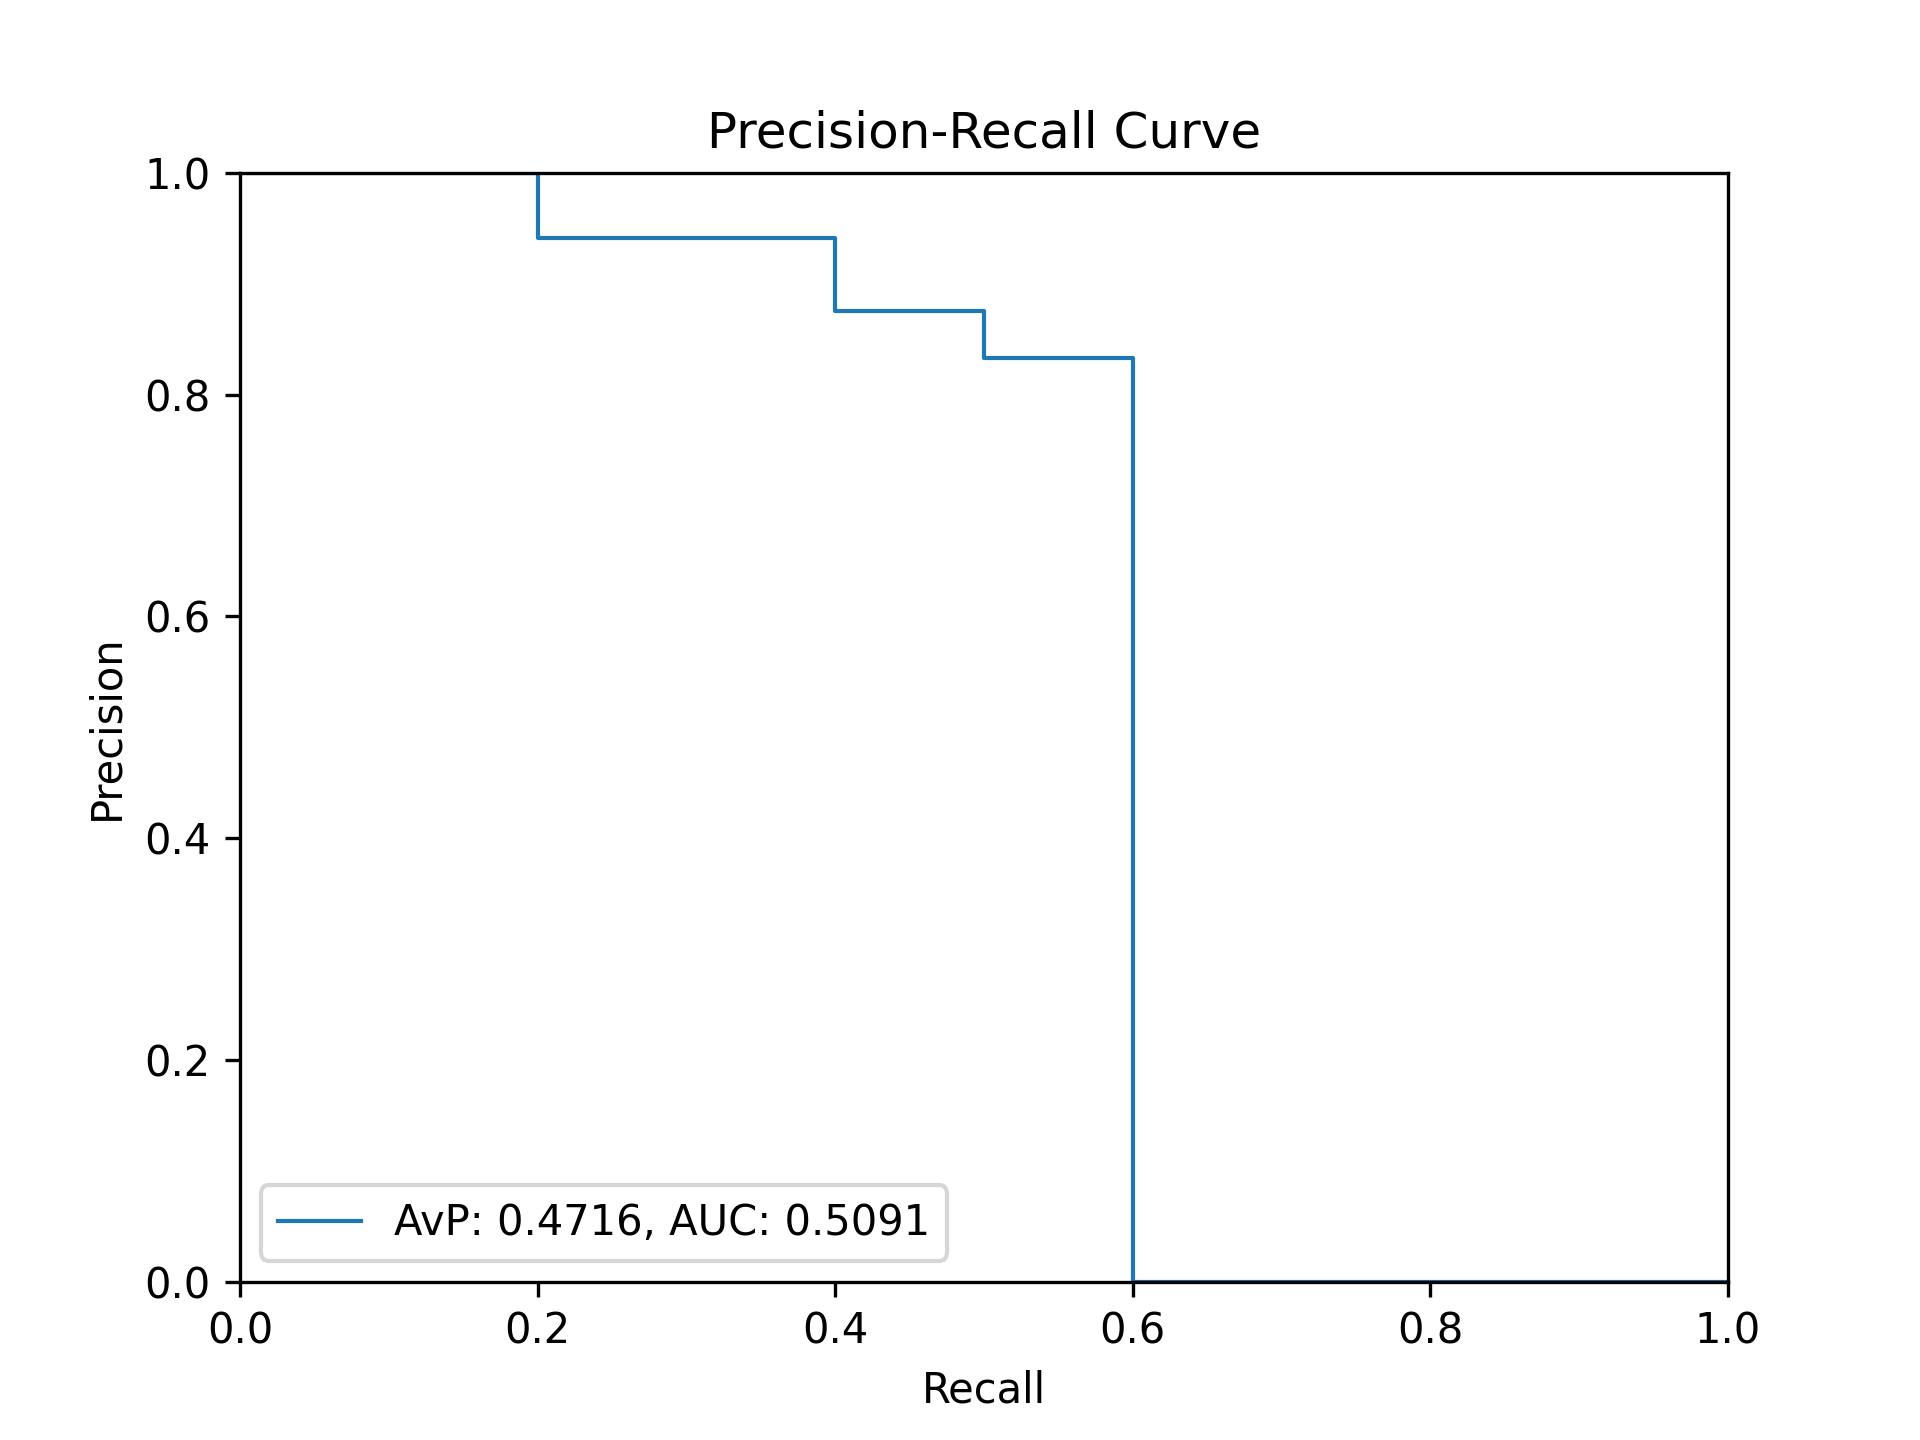
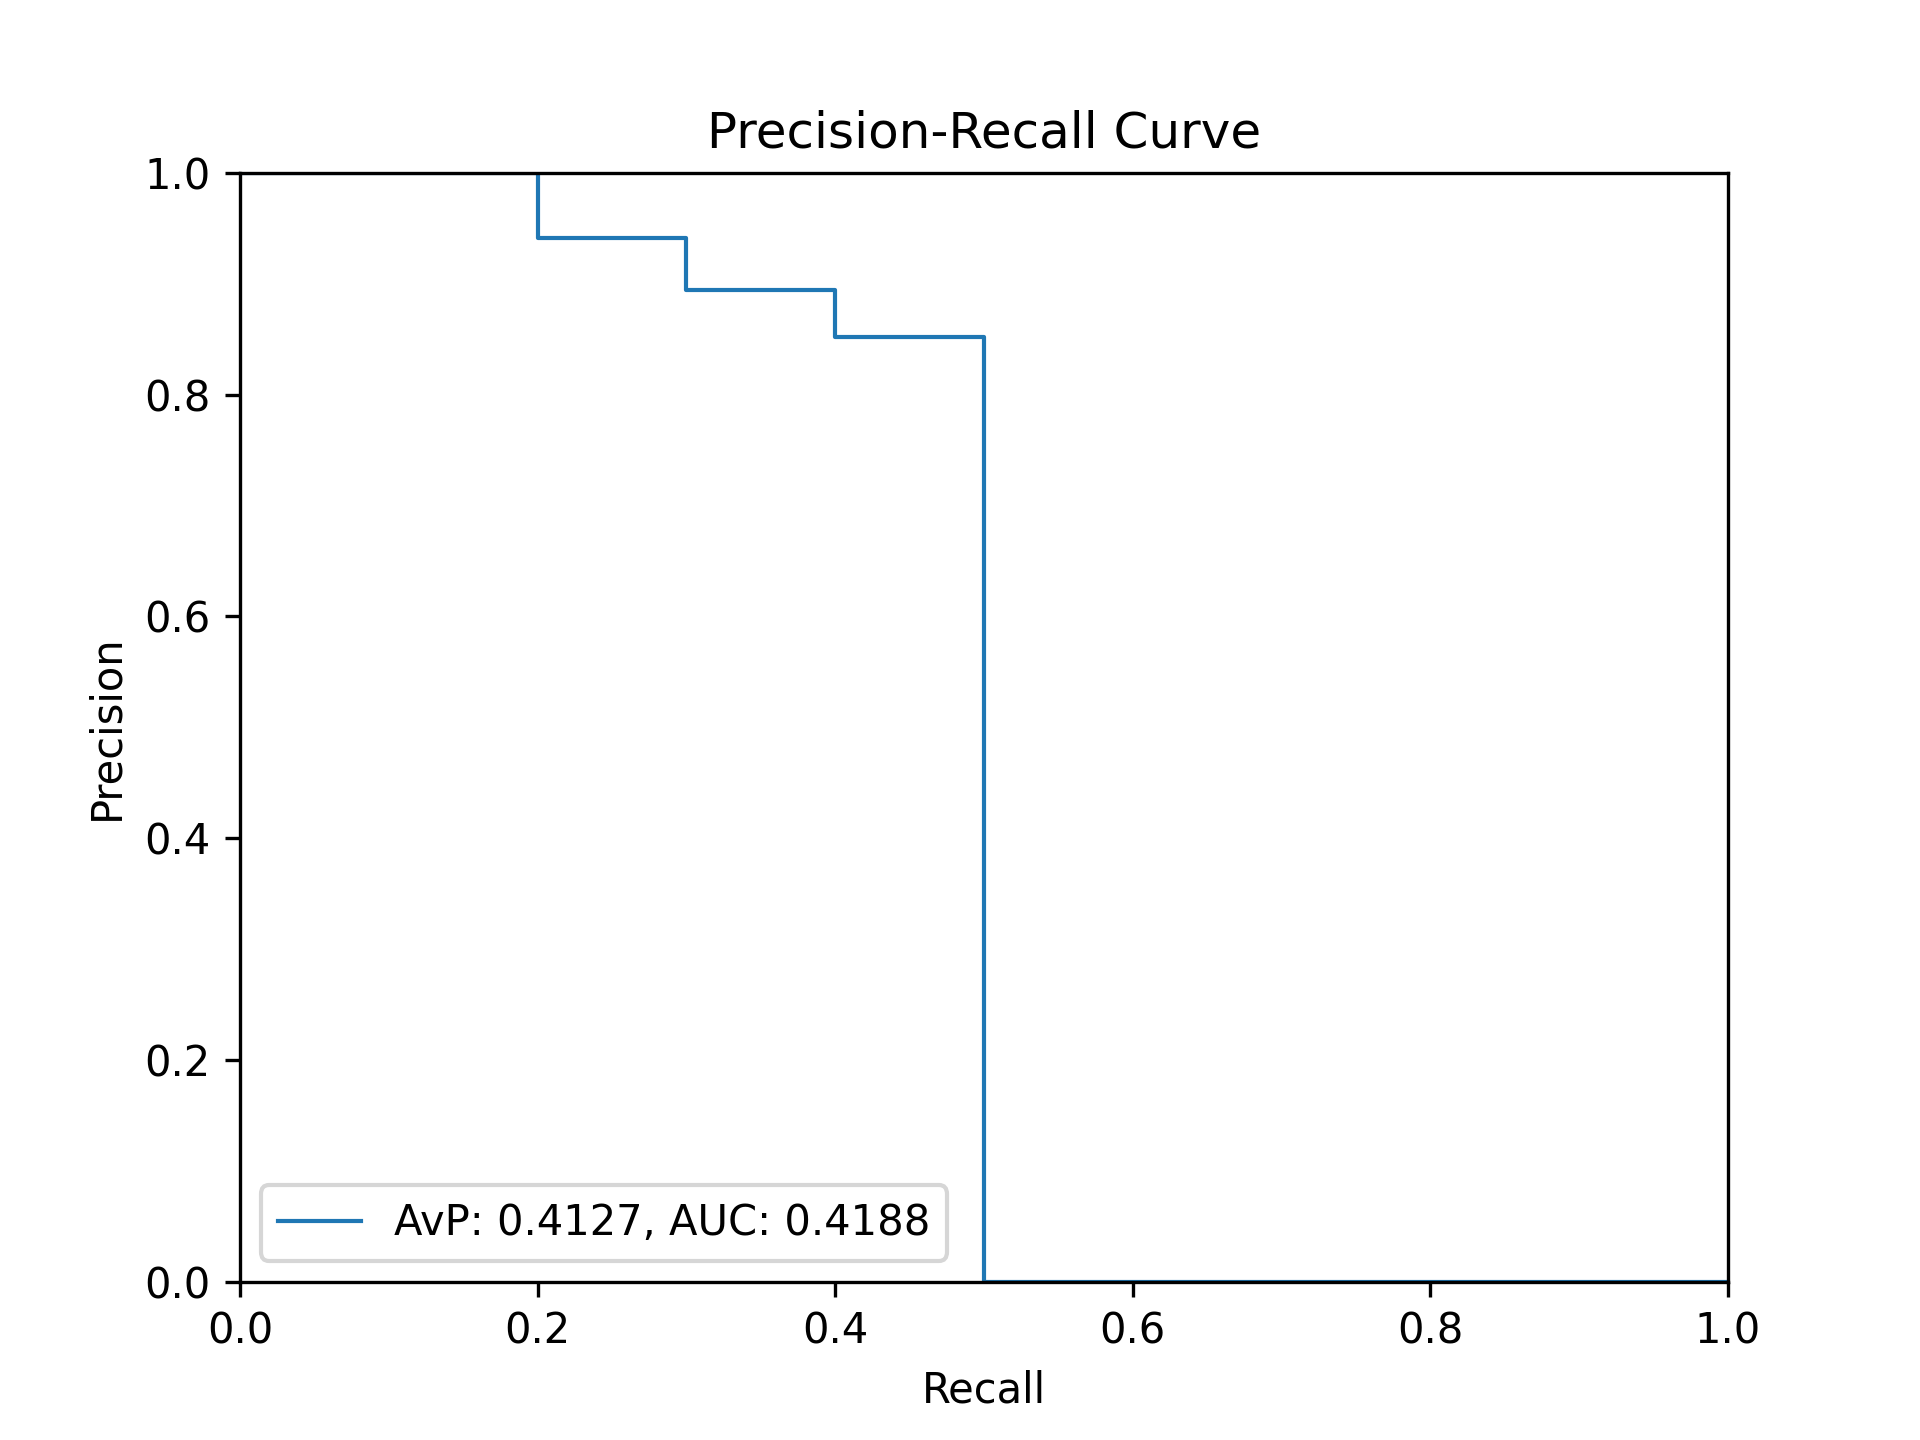
evaluate steal using max

diff --git a/m3/get_embeddings.py b/m3/get_embeddings.py
@@ -3,7 +3,7 @@ import json
 from sentence_transformers import SentenceTransformer
 
 # Load the SentenceTransformer model
-model = SentenceTransformer('msmarco-distilbert-dot-v5')
+model = SentenceTransformer('all-mpnet-base-v2')
 
 def get_embedding(text):
     # The model.encode() method already returns a list of floats
@@ -36,5 +36,5 @@ if __name__ == "__main__":
 
     # Output updated JSON to STDOUT
     #json.dump(data, sys.stdout, indent=4, ensure_ascii=False)
-    with open('data/docs/chunked_episodes.json', 'w') as file:
+    with open('data/docs/chunked_episodes_2.json', 'w') as file:
         json.dump(data, file, indent=4, ensure_ascii=False)

diff --git a/m3/evaluation/query_pure_semantic.py b/m3/evaluation/query_pure_semantic.py
@@ -6,7 +6,7 @@ import requests
 from sentence_transformers import SentenceTransformer
 
 def text_to_embedding(text):
-    model = SentenceTransformer('msmarco-distilbert-dot-v5')
+    model = SentenceTransformer('all-mpnet-base-v2')
     embedding = model.encode(text, convert_to_tensor=False).tolist()
     
     # Convert the embedding to the expected format
